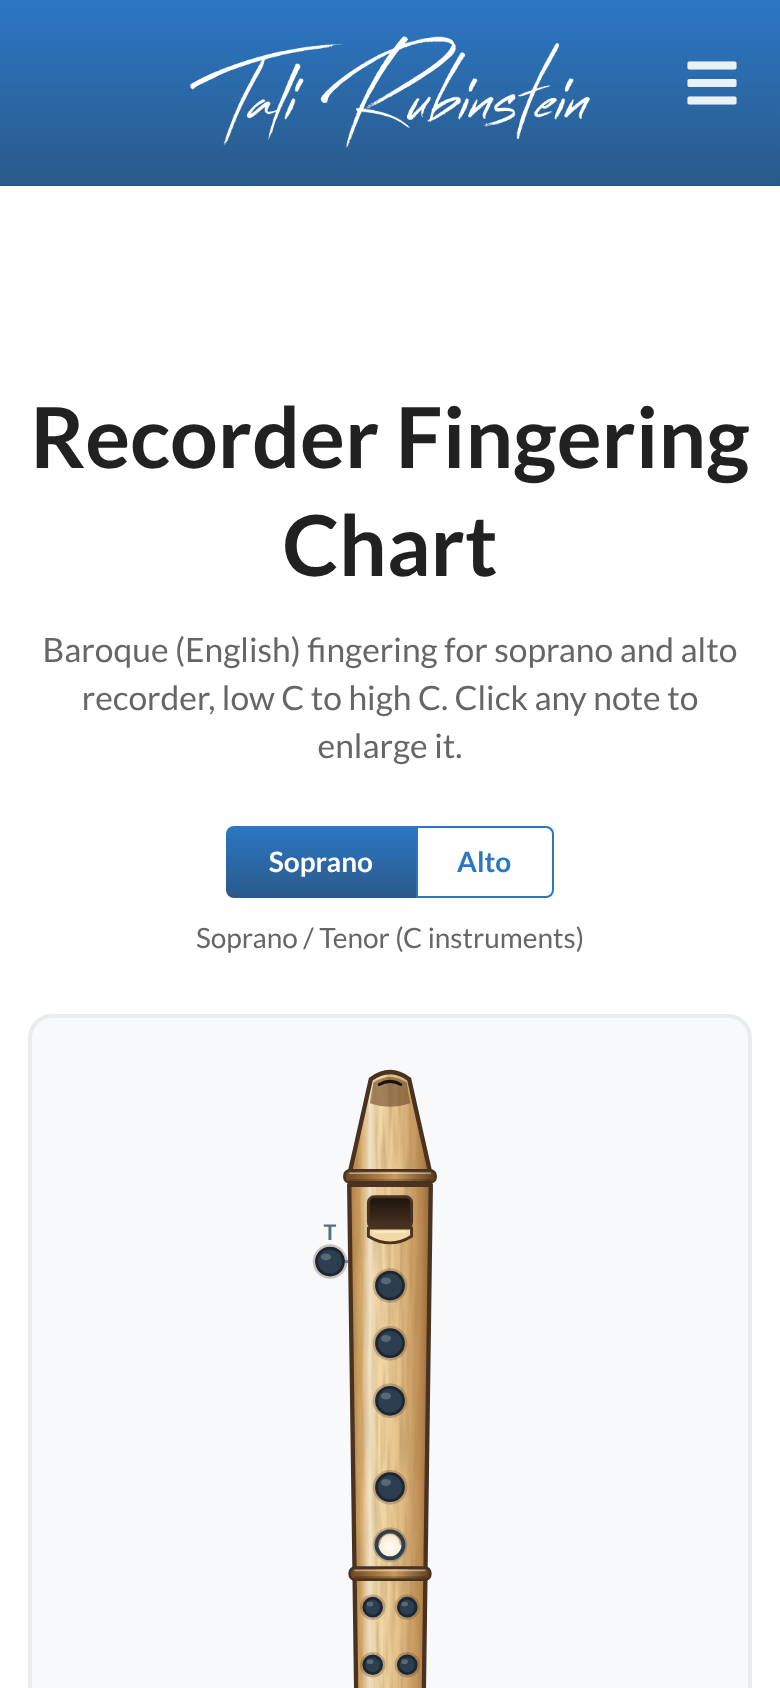
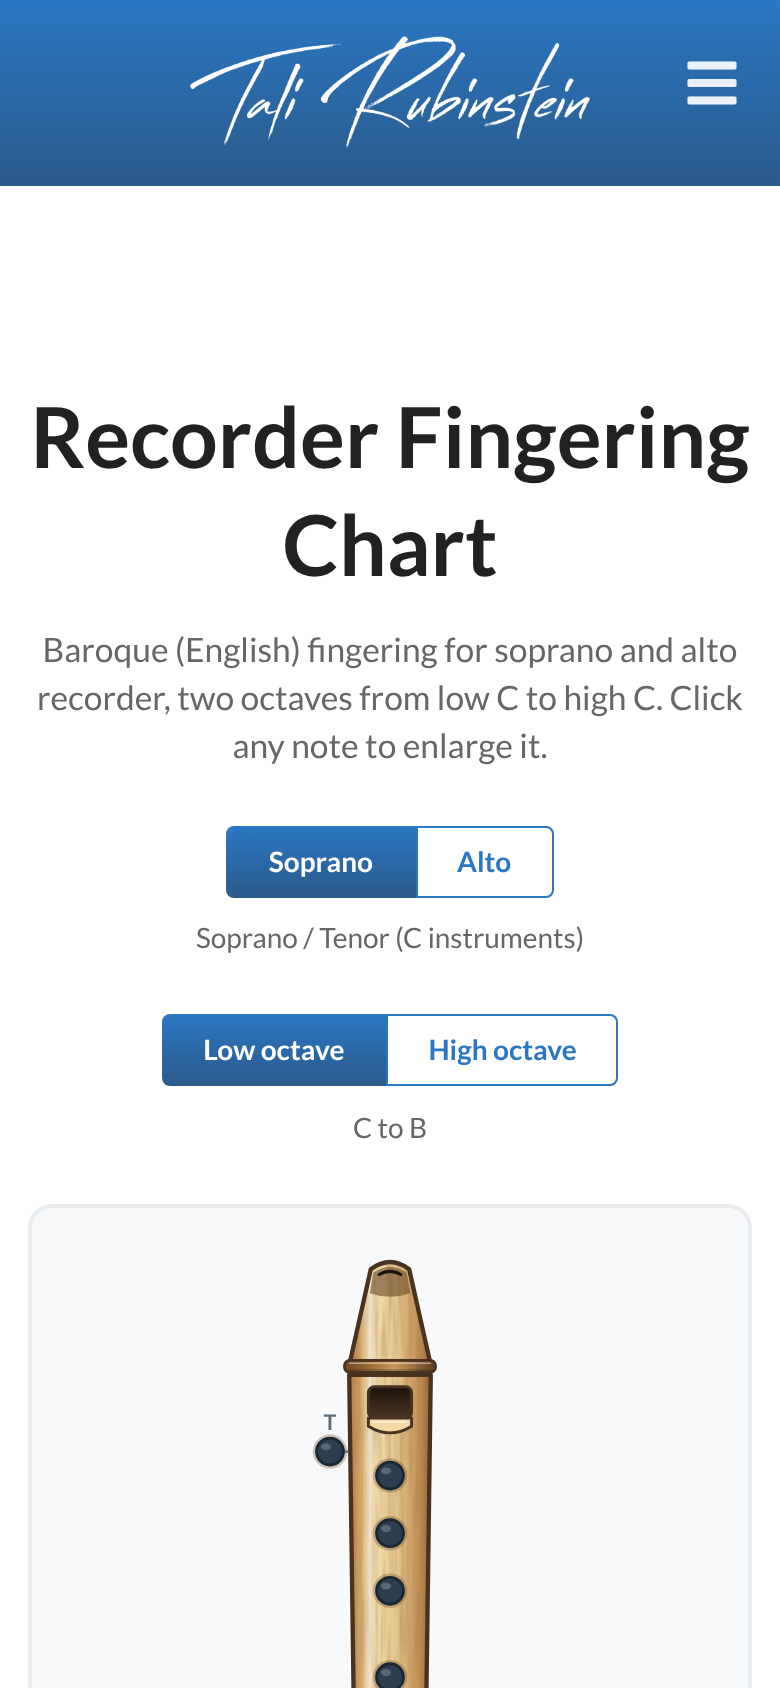
Fingering chart: fix D#/Eb and G#/Ab, sharp-first names, add high octave
- Correct two low-octave fingerings, cross-checked against an independent open
  recorder dataset: D#/Eb is 0 123 45½– (half of hole 6), G#/Ab is 0 12– 456–.
- Always write enharmonic pairs sharp first (A♯ / B♭, previously B♭ / A♯), and
  fix the alto name map (soprano G♭ is alto C♭, not C♯).
- Add the high octave (C to C, 13 notes) with the pinched thumb drawn as a
  half-filled hole; Low / High octave buttons keep the selected note, both
  octaves stay in the DOM and both print.
- Regenerate PR screenshots and add a high-octave one.

Claude-Session: https://claude.ai/code/session_01WMMpbvpRW59aVS4mF6u1VK

Changed region(s): [[0.1846, 0.5853, 0.7385, 1.0], [0.0615, 0.4005, 0.9538, 0.4621], [0.7692, 0.6161, 0.8, 0.6469]]

diff --git a/pages/recorder-fingering-chart.js b/pages/recorder-fingering-chart.js
@@ -5,25 +5,44 @@ import { Container, Button, Icon } from 'semantic-ui-react'
 import { BreadcrumbSchema, PERSON_ID } from '../components/StructuredData'
 import RecorderDiagram from '../components/RecorderDiagram'
 import { serializeJsonLd } from '../lib/jsonld'
-import { FINGERINGS, INSTRUMENTS, HOLE_LABELS, fingeringText } from '../data/fingerings'
+import { FINGERINGS, OCTAVES, INSTRUMENTS, HOLE_LABELS, fingeringText } from '../data/fingerings'
 
 const SITE = 'https://www.talirecorderlessons.com'
 const PAGE_URL = `${SITE}/recorder-fingering-chart`
 const TITLE = 'Recorder Fingering Chart: Soprano & Alto'
 const DESCRIPTION =
-  'Free printable recorder fingering chart: Baroque (English) fingering for soprano and alto, low C to high C, with clear hole diagrams and how to read them.'
+  'Free printable recorder fingering chart: Baroque fingering for soprano and alto across two octaves, with clear hole diagrams and how to read them.'
 
 const describe = (holes) =>
   holes
     .split('')
-    .map((c, i) => `${HOLE_LABELS[i] === 'Thumb' ? 'thumb hole' : 'hole ' + HOLE_LABELS[i]} ${c === '#' ? 'covered' : c === '/' ? 'half covered' : 'open'}`)
+    .map((c, i) => {
+      const name = HOLE_LABELS[i] === 'Thumb' ? 'thumb hole' : 'hole ' + HOLE_LABELS[i]
+      if (c === '#') return `${name} covered`
+      if (c === '/') return i === 0 ? `${name} pinched (half covered)` : `${name} half covered`
+      return `${name} open`
+    })
     .join(', ')
+
+const NOTES_BY_OCTAVE = Object.fromEntries(OCTAVES.map((o) => [o.id, FINGERINGS.filter((f) => f.octave === o.id)]))
 
 const FingeringChart = () => {
   const [instrument, setInstrument] = useState('soprano')
+  const [octave, setOctave] = useState('low')
   const [selectedId, setSelectedId] = useState('f')
   const names = INSTRUMENTS[instrument].names
   const selected = FINGERINGS.find((f) => f.id === selectedId)
+
+  // Switching octave keeps the same note (F low -> F high) so the enlarged view
+  // follows the player up the instrument.
+  const changeOctave = (next) => {
+    if (next === octave) return
+    const from = NOTES_BY_OCTAVE[octave]
+    const to = NOTES_BY_OCTAVE[next]
+    const idx = Math.max(0, from.findIndex((f) => f.id === selectedId))
+    setSelectedId(to[Math.min(idx, to.length - 1)].id)
+    setOctave(next)
+  }
 
   const noteLabel = (f) => {
     const base = names(f.name)
@@ -42,7 +61,7 @@ const FingeringChart = () => {
     isAccessibleForFree: true,
     learningResourceType: 'Chart',
     educationalLevel: 'Beginner',
-    teaches: 'Baroque (English) fingering for soprano and alto recorder, low C to high C',
+    teaches: 'Baroque (English) fingering for soprano and alto recorder, two octaves from low C to high C',
     author: { '@id': PERSON_ID, '@type': 'Person', name: 'Tali Rubinstein' },
   }
 
@@ -83,7 +102,10 @@ const FingeringChart = () => {
             .fc-btn.ui.primary.button:hover, .fc-btn.ui.primary.button:focus { background: linear-gradient(270deg, #8fc4f9 0%, #72aee6 100%); }
             .fc-btn.ui.basic.button { background: #fff; box-shadow: 0 0 0 1px #2b77c4 inset !important; color: #2b77c4 !important; }
             .fc-btn.ui.basic.button:hover, .fc-btn.ui.basic.button:focus { background: #e7f3ff; box-shadow: 0 0 0 1px #2a5a8a inset !important; color: #2a5a8a !important; }
+            .fc-octave-title { font-size: 1.4rem; color: #2c3e50; margin: 0 0 .9rem; }
             @media print {
+              /* print both octaves, whichever tab is open on screen */
+              .fc-octave[hidden] { display: block !important; margin-top: 1.5rem; }
               #footer, .no-print, header, nav { display: none !important; }
               .fc-card { break-inside: avoid; border-color: #999; }
             }
@@ -94,7 +116,7 @@ const FingeringChart = () => {
       <Container style={{ marginTop: '6rem', marginBottom: '4rem', maxWidth: '1000px' }}>
         <h1 style={{ fontSize: '3rem', marginBottom: '1rem', textAlign: 'center' }}>Recorder Fingering Chart</h1>
         <p style={{ fontSize: '1.2rem', textAlign: 'center', color: '#666', marginBottom: '2rem' }}>
-          Baroque (English) fingering for soprano and alto recorder, low C to high C. Click any note to enlarge it.
+          Baroque (English) fingering for soprano and alto recorder, two octaves from low C to high C. Click any note to enlarge it.
         </p>
 
         <div className="no-print" style={{ textAlign: 'center', marginBottom: '2rem' }} role="group" aria-label="Choose your recorder">
@@ -116,6 +138,28 @@ const FingeringChart = () => {
           <p style={{ color: '#666', marginTop: '.75rem', marginBottom: 0 }}>{INSTRUMENTS[instrument].label}</p>
         </div>
 
+        <div className="no-print" style={{ textAlign: 'center', marginBottom: '2rem' }} role="group" aria-label="Choose an octave">
+          <Button.Group>
+            {OCTAVES.map((o) => (
+              <Button
+                key={o.id}
+                type="button"
+                className="fc-btn"
+                primary={octave === o.id}
+                basic={octave !== o.id}
+                aria-pressed={octave === o.id}
+                onClick={() => changeOctave(o.id)}
+              >
+                {o.label}
+              </Button>
+            ))}
+          </Button.Group>
+          <p style={{ color: '#666', marginTop: '.75rem', marginBottom: 0 }}>
+            {OCTAVES.find((o) => o.id === octave).range}
+            {octave === 'high' ? ' (thumb open or pinched)' : ''}
+          </p>
+        </div>
+
         {/* Selected note, enlarged */}
         <section
           aria-live="polite"
@@ -131,8 +175,7 @@ const FingeringChart = () => {
               <h2 style={{ fontSize: '2.4rem', margin: 0 }}>{noteLabel(selected)}</h2>
               <p className="fc-text" style={{ fontSize: '1.3rem' }}>{fingeringText(selected.holes)}</p>
               <p style={{ color: '#555', maxWidth: '380px', marginBottom: 0 }}>
-                {selected.octave === 'high' ? 'Upper register: ' : ''}
-                {describe(selected.holes)}.
+                {OCTAVES.find((o) => o.id === selected.octave).label}: {describe(selected.holes)}.
               </p>
             </div>
           </div>
@@ -145,35 +188,47 @@ const FingeringChart = () => {
           </Button>
         </div>
 
-        <div className="fc-grid">
-          {FINGERINGS.map((f) => (
-            <button
-              key={f.id}
-              type="button"
-              className="fc-card"
-              aria-pressed={selectedId === f.id}
-              onClick={() => setSelectedId(f.id)}
-            >
-              <div className="fc-note">{noteLabel(f)}</div>
-              <RecorderDiagram
-                holes={f.holes}
-                width={70}
-                label={`${noteLabel(f)}: ${describe(f.holes)}`}
-              />
-              <div className="fc-text">{fingeringText(f.holes)}</div>
-            </button>
-          ))}
-        </div>
+        {OCTAVES.map((o) => (
+          <div key={o.id} className="fc-octave" hidden={octave !== o.id}>
+            <h2 className="fc-octave-title">{o.label} ({o.range})</h2>
+            <div className="fc-grid">
+              {NOTES_BY_OCTAVE[o.id].map((f) => (
+                <button
+                  key={f.id}
+                  type="button"
+                  className="fc-card"
+                  aria-pressed={selectedId === f.id}
+                  onClick={() => setSelectedId(f.id)}
+                >
+                  <div className="fc-note">{noteLabel(f)}</div>
+                  <RecorderDiagram
+                    holes={f.holes}
+                    width={70}
+                    label={`${noteLabel(f)}, ${o.label.toLowerCase()}: ${describe(f.holes)}`}
+                  />
+                  <div className="fc-text">{fingeringText(f.holes)}</div>
+                </button>
+              ))}
+            </div>
+          </div>
+        ))}
 
         <section style={{ marginTop: '3rem' }}>
           <h2 style={{ fontSize: '2rem', color: '#2c3e50' }}>How to read this chart</h2>
           <ul style={{ fontSize: '1.1rem', lineHeight: '1.8', color: '#555' }}>
             <li><strong>Filled circle</strong> = cover the hole completely with the pad of your finger. <strong>Empty circle</strong> = leave it open.</li>
             <li><strong>T</strong> is the thumb hole on the back, covered by your left thumb. Your left hand covers holes 1-3 (index, middle, ring), your right hand covers holes 4-7 (index, middle, ring, little finger).</li>
-            <li>Holes 6 and 7 are <Link href="/glossary#double-holes">double holes</Link>. A half-filled pair means cover only one hole of the pair.</li>
+            <li>Holes 6 and 7 are <Link href="/glossary#double-holes">double holes</Link>. A pair with one hole filled means cover only one hole of the pair.</li>
+            <li>A <strong>half-filled thumb hole</strong> (<code>&frac12;</code> in the written fingering) means pinch it: slide your thumbnail into the hole so it is about half covered. The high octave uses this from E upward.</li>
             <li>The written fingering, such as <code>0 123 4&ndash;67</code>, lists the thumb (0), then holes 1-3, then holes 4-7. A dash means that hole is open.</li>
             <li>Notes with two names, such as {'C\u266f / D\u266d'}, are the same note and use the same fingering.</li>
           </ul>
+
+          <h2 style={{ fontSize: '2rem', color: '#2c3e50', marginTop: '2rem' }}>Low octave and high octave</h2>
+          <p style={{ fontSize: '1.1rem', lineHeight: '1.8', color: '#555' }}>
+            The low octave runs from the all-holes-covered C up to B. The high octave starts at the next C and plays the same note names an octave higher, with different fingerings:
+            the thumb hole is covered for the first high C, open for the next few notes, and pinched half open from E upward. Use the octave buttons above to switch between them.
+          </p>
 
           <h2 style={{ fontSize: '2rem', color: '#2c3e50', marginTop: '2rem' }}>Soprano and alto: same fingerings, different note names</h2>
           <p style={{ fontSize: '1.1rem', lineHeight: '1.8', color: '#555' }}>

diff --git a/data/fingerings.js b/data/fingerings.js
@@ -9,30 +9,57 @@
 //   (1-3 left hand, 4-7 right hand; 6 and 7 are the double holes)
 //     '#'  covered
 //     '.'  open
-//     '/'  half covered (for holes 6/7: ONE hole of the double pair covered)
+//     '/'  half covered. For holes 6/7: ONE hole of the double pair covered.
+//          For the thumb: "pinched", i.e. the thumbnail slid into the hole so it
+//          is about half covered (used for the second octave from E).
 //
-// `check` marks the entries most likely to need a second look. They are
-// accidentals / fork fingerings, which differ slightly between sources and
-// instruments, so they should be confirmed before this page ships.
+// Two octaves: the low octave (C to B) and the high octave (C to C, which takes
+// the player up to the top C). Enharmonic pairs are always written sharp first
+// (C♯ / D♭), on every instrument.
 //
-// Range: first octave only (low C to high C). Upper-register fingerings
-// (thumb pinching, D6 and above) are intentionally left for a follow-up once
-// this octave has been signed off.
+// Sources: the low octave and most of the high octave are standard Baroque
+// soprano fingerings, cross-checked against an independent open dataset
+// (the MIT-licensed @pepperhorn/fingering-components recorder.json). Every
+// accidental and every pinched-thumb note is still marked `check: true` because
+// fork fingerings vary slightly between instruments; confirm before shipping.
+
+const lo = (id, name, alt, holes, check) => ({ id, name, alt, octave: 'low', holes, check });
+const hi = (id, name, alt, holes, check) => ({ id: `h-${id}`, name, alt, octave: 'high', holes, check });
+
+export const OCTAVES = [
+  { id: 'low', label: 'Low octave', range: 'C to B' },
+  { id: 'high', label: 'High octave', range: 'C to C' },
+];
 
 export const FINGERINGS = [
-  { id: 'c',   name: 'C',      alt: null,      octave: 'low',  holes: '########' },
-  { id: 'cs',  name: 'C♯', alt: 'D♭', octave: 'low',  holes: '#######/', check: true },
-  { id: 'd',   name: 'D',      alt: null,      octave: 'low',  holes: '#######.' },
-  { id: 'ds',  name: 'D♯', alt: 'E♭', octave: 'low',  holes: '######.#', check: true },
-  { id: 'e',   name: 'E',      alt: null,      octave: 'low',  holes: '######..' },
-  { id: 'f',   name: 'F',      alt: null,      octave: 'low',  holes: '#####.##' },
-  { id: 'fs',  name: 'F♯', alt: 'G♭', octave: 'low',  holes: '####.##.', check: true },
-  { id: 'g',   name: 'G',      alt: null,      octave: 'low',  holes: '####....' },
-  { id: 'gs',  name: 'G♯', alt: 'A♭', octave: 'low',  holes: '###.##..', check: true },
-  { id: 'a',   name: 'A',      alt: null,      octave: 'low',  holes: '###.....' },
-  { id: 'bb',  name: 'B♭', alt: 'A♯', octave: 'low',  holes: '##.##...', check: true },
-  { id: 'b',   name: 'B',      alt: null,      octave: 'low',  holes: '##......' },
-  { id: 'c2',  name: 'C',      alt: null,      octave: 'high', holes: '#.#.....' },
+  // Low octave
+  lo('c',  'C',  null, '########'),
+  lo('cs', 'C♯', 'D♭', '#######/', true),
+  lo('d',  'D',  null, '#######.'),
+  lo('ds', 'D♯', 'E♭', '######/.', true),
+  lo('e',  'E',  null, '######..'),
+  lo('f',  'F',  null, '#####.##'),
+  lo('fs', 'F♯', 'G♭', '####.##.', true),
+  lo('g',  'G',  null, '####....'),
+  lo('gs', 'G♯', 'A♭', '###.###.', true),
+  lo('a',  'A',  null, '###.....'),
+  lo('as', 'A♯', 'B♭', '##.##...', true),
+  lo('b',  'B',  null, '##......'),
+
+  // High octave (thumb open or pinched)
+  hi('c',  'C',  null, '#.#.....'),
+  hi('cs', 'C♯', 'D♭', '.##.....', true),
+  hi('d',  'D',  null, '..#.....', true),
+  hi('ds', 'D♯', 'E♭', '.######.', true),
+  hi('e',  'E',  null, '/#####..', true),
+  hi('f',  'F',  null, '/####.#.', true),
+  hi('fs', 'F♯', 'G♭', '/###.#..', true),
+  hi('g',  'G',  null, '/###....', true),
+  hi('gs', 'G♯', 'A♭', '/##.#...', true),
+  hi('a',  'A',  null, '/##.....', true),
+  hi('as', 'A♯', 'B♭', '/###.##.', true),
+  hi('b',  'B',  null, '/##.##..', true),
+  hi('c2', 'C',  null, '/#..##..', true),
 ];
 
 // Note names when the same fingering is played on an alto (F instrument).
@@ -40,7 +67,7 @@ export const FINGERINGS = [
 export const TRANSPOSE_TO_F = {
   'C': 'F', 'C♯': 'F♯', 'D♭': 'G♭',
   'D': 'G', 'D♯': 'G♯', 'E♭': 'A♭',
-  'E': 'A', 'F': 'B♭', 'F♯': 'B', 'G♭': 'C♯',
+  'E': 'A', 'F': 'B♭', 'F♯': 'B', 'G♭': 'C♭',
   'G': 'C', 'G♯': 'C♯', 'A♭': 'D♭',
   'A': 'D', 'B♭': 'E♭', 'A♯': 'D♯',
   'B': 'E',
@@ -53,16 +80,15 @@ export const INSTRUMENTS = {
 
 export const HOLE_LABELS = ['Thumb', '1', '2', '3', '4', '5', '6', '7'];
 
-/** Plain-text fingering, e.g. F -> "0 123 4–6 7"; '-' open, '½' half. */
+/** Plain-text fingering, e.g. F -> "0 123 4–67"; '–' open, '½' half / pinched. */
 export function fingeringText(holes) {
   const sym = (c) => (c === '#' ? null : c === '/' ? '½' : '–');
-  const out = [];
-  out.push(holes[0] === '#' ? '0' : '–');
+  const thumb = holes[0] === '#' ? '0' : holes[0] === '/' ? '½' : '–';
   const group = (from, to) =>
     holes
       .slice(from, to + 1)
       .split('')
       .map((c, i) => (sym(c) === null ? String(from + i) : sym(c)))
       .join('');
-  return `${out[0]} ${group(1, 3)} ${group(4, 7)}`;
+  return `${thumb} ${group(1, 3)} ${group(4, 7)}`;
 }

diff --git a/components/RecorderDiagram.js b/components/RecorderDiagram.js
@@ -9,7 +9,8 @@ import React, { useId } from 'react';
 // bevelled tone holes.
 //
 // `holes` is 8 characters: thumb, then holes 1-7 (see data/fingerings.js).
-//   '#' covered   '.' open   '/' half covered (one hole of a double pair)
+//   '#' covered   '.' open   '/' half covered (one hole of a double pair, or
+//   the pinched thumb hole used in the second octave)
 // Holes 6 and 7 are the double holes on a real recorder, drawn as two small
 // holes side by side.
 
@@ -36,13 +37,15 @@ const RecorderDiagram = ({ holes, label, width = 84 }) => {
   const uid = useId().replace(/:/g, '');
   const id = (n) => `${n}-${uid}`;
   const [thumb, ...fronts] = holes.split('');
+  const stateOf = (c) => (c === '#' ? 'closed' : c === '/' ? 'half' : 'open');
 
-  // A tone hole: bevelled rim, empty ring when open, solid pad when covered.
-  const hole = (key, cx, cy, r, closed) => (
+  // A tone hole: bevelled rim, empty ring when open, solid pad when covered,
+  // left half filled when half covered (the pinched thumb).
+  const hole = (key, cx, cy, r, state) => (
     <g key={key}>
       {/* soft shadow around the rim so the hole sits in the wood */}
       <circle cx={cx} cy={cy} r={r + 1.6} fill="#5b3b1c" opacity="0.28" />
-      {closed ? (
+      {state === 'closed' ? (
         <>
           <circle cx={cx} cy={cy} r={r} fill={INK} stroke="#1b2733" strokeWidth="1.2" />
           <ellipse cx={cx - r * 0.3} cy={cy - r * 0.35} rx={r * 0.38} ry={r * 0.26} fill="#fff" opacity="0.22" />
@@ -50,7 +53,11 @@ const RecorderDiagram = ({ holes, label, width = 84 }) => {
       ) : (
         <>
           <circle cx={cx} cy={cy} r={r} fill={`url(#${id('bore')})`} stroke={INK} strokeWidth="1.6" />
-          <path d={`M ${cx - r + 1} ${cy - 0.4} A ${r - 1} ${r - 1} 0 0 1 ${cx + r - 1} ${cy - 0.4}`} fill="none" stroke="#5b3b1c" strokeOpacity="0.35" strokeWidth="1.1" strokeLinecap="round" />
+          {state === 'half' ? (
+            <path d={`M ${cx} ${cy - r} A ${r} ${r} 0 0 0 ${cx} ${cy + r} Z`} fill={INK} />
+          ) : (
+            <path d={`M ${cx - r + 1} ${cy - 0.4} A ${r - 1} ${r - 1} 0 0 1 ${cx + r - 1} ${cy - 0.4}`} fill="none" stroke="#5b3b1c" strokeOpacity="0.35" strokeWidth="1.1" strokeLinecap="round" />
+          )}
         </>
       )}
     </g>
@@ -167,7 +174,7 @@ const RecorderDiagram = ({ holes, label, width = 84 }) => {
 
       {/* Thumb hole (back of the instrument), with a short pointer to the body */}
       <line x1={THUMB.x + 6} y1={THUMB.y} x2="34" y2={THUMB.y} stroke={INK} strokeWidth="1.2" strokeDasharray="2 2" opacity="0.55" />
-      {hole('thumb', THUMB.x, THUMB.y, 5.6, thumb === '#')}
+      {hole('thumb', THUMB.x, THUMB.y, 5.6, stateOf(thumb))}
       <text x={THUMB.x} y={THUMB.y - 9} fontSize="9" fontWeight="700" textAnchor="middle" fill={INK} opacity="0.75">
         T
       </text>
@@ -176,14 +183,14 @@ const RecorderDiagram = ({ holes, label, width = 84 }) => {
       {fronts.map((c, i) => {
         const n = i + 1;
         const y = HOLE_Y[i];
-        if (n <= 5) return hole(n, CX, y, R_SINGLE, c === '#');
+        if (n <= 5) return hole(n, CX, y, R_SINGLE, stateOf(c));
         // '/' covers only one hole of the pair
-        const leftClosed = c === '#' || c === '/';
-        const rightClosed = c === '#';
+        const left = c === '#' || c === '/' ? 'closed' : 'open';
+        const right = c === '#' ? 'closed' : 'open';
         return (
           <g key={n}>
-            {hole(`${n}l`, CX - DOUBLE_OFFSET, y, R_DOUBLE, leftClosed)}
-            {hole(`${n}r`, CX + DOUBLE_OFFSET, y, R_DOUBLE, rightClosed)}
+            {hole(`${n}l`, CX - DOUBLE_OFFSET, y, R_DOUBLE, left)}
+            {hole(`${n}r`, CX + DOUBLE_OFFSET, y, R_DOUBLE, right)}
           </g>
         );
       })}
